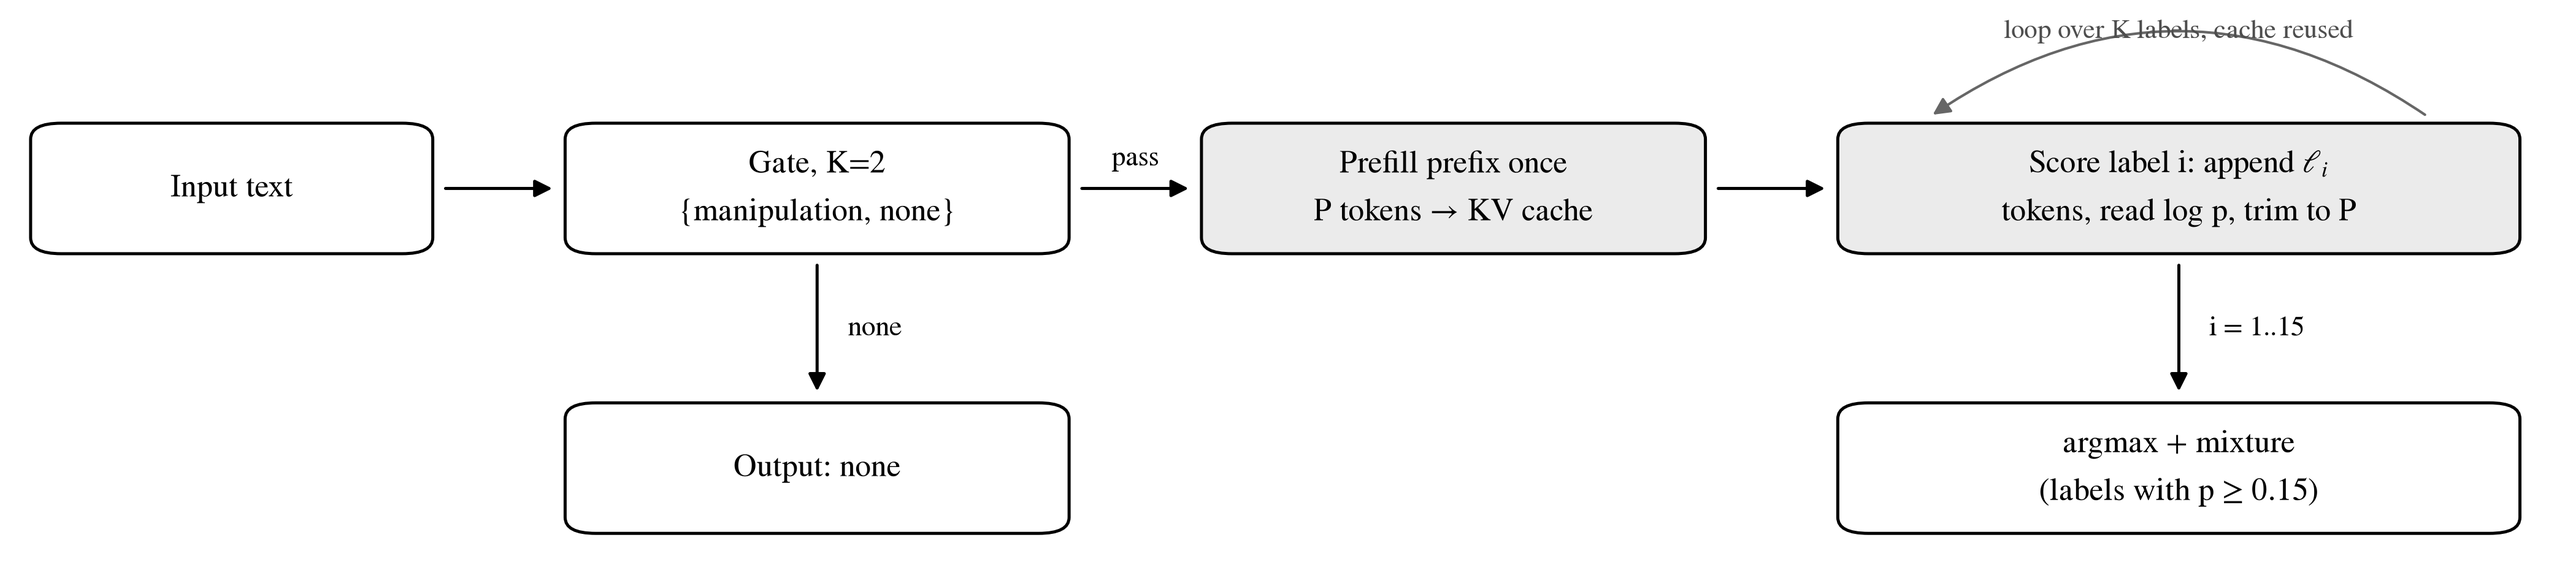
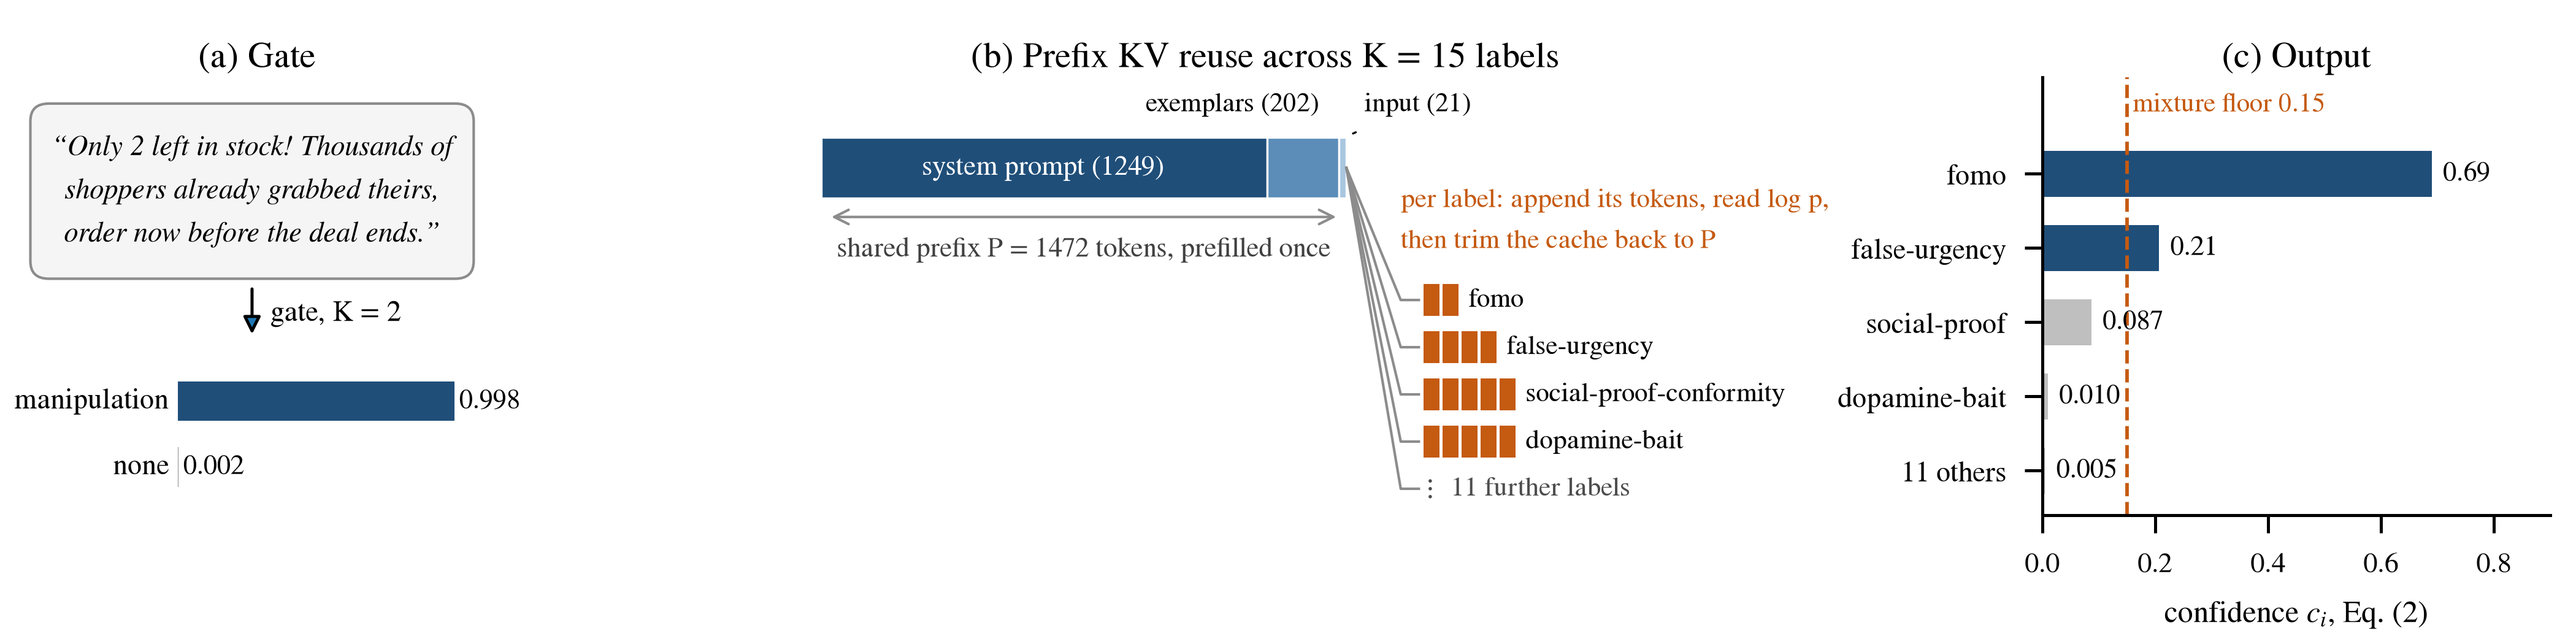
docs(paper): Fig. 1 redrawn as real gate, KV-prefix strip and confidence output

diff --git a/docs/paper/make_figs.py b/docs/paper/make_figs.py
@@ -64,27 +64,63 @@ def decode(ax, fs=5):
     ax.legend(fontsize=fs, loc="upper left", bbox_to_anchor=(0, 0.7), handlelength=1.5)
 
 
-def pipeline(ax):
-    ax.set_xlim(0, 100); ax.set_ylim(3, 43.5); ax.axis("off")
-    def box(x, y, w, h, txt, fill="w"):
-        ax.add_patch(FancyBboxPatch((x, y), w, h, boxstyle="round,pad=0.4,rounding_size=1.2",
-                                    fc=fill, ec="k", lw=0.6))
-        ax.text(x + w/2, y + h/2, txt, ha="center", va="center", fontsize=6.2)
-    def arr(x0, y0, x1, y1, t=None):
-        ax.annotate("", (x1, y1), (x0, y0), arrowprops=dict(arrowstyle="-|>", lw=0.6, color="k"))
-        if t: ax.text((x0+x1)/2 + (1.2 if x0 == x1 else 0), (y0+y1)/2 + (0 if x0 == x1 else 1.2), t, fontsize=5.5, ha="left" if x0 == x1 else "center", va="center" if x0 == x1 else "bottom")
-    box(1, 26, 15, 9, "Input text")
-    box(22, 26, 19, 9, "Gate, K=2\n{manipulation, none}")
-    box(47, 26, 19, 9, "Prefill prefix once\nP tokens → KV cache", fill="0.92")
-    box(72, 26, 26, 9, "Score label i: append ℓ$_i$\ntokens, read log p, trim to P", fill="0.92")
-    box(72, 5, 26, 9, "argmax + mixture\n(labels with p ≥ 0.15)")
-    box(22, 5, 19, 9, "Output: none")
-    arr(16.5, 30.5, 21.5, 30.5); arr(41.5, 30.5, 46.5, 30.5, "pass")
-    arr(66.5, 30.5, 71.5, 30.5); arr(85, 25.5, 85, 14.5, "i = 1..15")
-    arr(31.5, 25.5, 31.5, 14.5, "none")
-    ax.annotate("", (75, 35.6), (95, 35.6), arrowprops=dict(arrowstyle="-|>", lw=0.5, color="0.4",
-                connectionstyle="arc3,rad=0.35"))
-    ax.text(85, 41.8, "loop over K labels, cache reused", fontsize=5.3, ha="center", color="0.3")
+NAVY, ORNG, GRY = "#1f4e79", "#c55a11", "0.55"
+
+
+def pipeline(fig):
+    """Fig. 1: real run of the deployed 3B on one input (tokens from its tokenizer, p from /classify)."""
+    gs = fig.add_gridspec(1, 3, width_ratios=[1.0, 2.0, 1.1], wspace=0.5)
+    a, k, c = (fig.add_subplot(g) for g in gs)
+
+    # (a) gate
+    a.set_xlim(0, 10); a.set_ylim(0, 10); a.axis("off")
+    a.add_patch(FancyBboxPatch((0.3, 5.6), 9.2, 3.6, boxstyle="round,pad=0.2,rounding_size=0.4", fc="0.96", ec=GRY, lw=0.5))
+    a.text(4.9, 7.4, "\u201cOnly 2 left in stock! Thousands of\nshoppers already grabbed theirs,\norder now before the deal ends.\u201d",
+           ha="center", va="center", fontsize=5.6, style="italic")
+    a.annotate("", (4.9, 3.9), (4.9, 5.4), arrowprops=dict(arrowstyle="-|>", lw=0.6))
+    a.text(5.3, 4.6, "gate, K = 2", fontsize=5.6, va="center")
+    for y, lab, p_, col in [(2.6, "manipulation", 0.998, NAVY), (1.1, "none", 0.002, GRY)]:
+        a.barh(y, 6.0 * p_, left=3.3, height=0.9, color=col)
+        a.text(3.1, y, lab, ha="right", va="center", fontsize=5.6)
+        a.text(3.4 + 6.0 * p_, y, f"{p_:.3f}", va="center", fontsize=5.4)
+    a.set_title("(a) Gate", fontsize=7, pad=2)
+
+    # (b) KV cache strip + label branches
+    k.set_xlim(-2, 100); k.set_ylim(-0.8, 10.8); k.axis("off")
+    P = 1472; segs = [("system prompt + definitions", 1249, NAVY), ("exemplars", 202, "#5b8db8"), ("input", 21, "#a9c6e0")]
+    x0, sc = 0, 58 / P
+    for lab, n, col in segs:
+        k.add_patch(plt.Rectangle((x0, 7.6), n * sc, 1.6, fc=col, ec="w", lw=0.4))
+        x0 += n * sc
+    k.text(24.5, 8.4, "system prompt (1249)", ha="center", va="center", fontsize=5.4, color="w")
+    k.text(55, 9.9, "exemplars (202)", ha="right", fontsize=5.2)
+    k.annotate("input (21)", (57.7, 9.2), (60, 9.9), fontsize=5.2, arrowprops=dict(arrowstyle="-", lw=0.4))
+    k.annotate("", (0, 7.1), (58, 7.1), arrowprops=dict(arrowstyle="<->", lw=0.5, color=GRY))
+    k.text(29, 6.6, "shared prefix P = 1472 tokens, prefilled once", ha="center", va="top", fontsize=5.4, color="0.25")
+    rows = [("fomo", 2), ("false-urgency", 4), ("social-proof-conformity", 5), ("dopamine-bait", 5), ("11 further labels", None)]
+    for i, (lab, n) in enumerate(rows):
+        y = 4.9 - i * 1.25
+        k.plot([58, 64, 66], [8.4, y, y], color=GRY, lw=0.5)
+        if n:
+            for j in range(n):
+                k.add_patch(plt.Rectangle((66.5 + j * 2.1, y - 0.42), 1.8, 0.84, fc=ORNG, ec="none"))
+            k.text(66.5 + n * 2.1 + 0.8, y, lab, va="center", fontsize=5.3)
+        else:
+            k.text(66.5, y, "\u22ee  11 further labels", va="center", fontsize=5.3, color="0.3")
+    k.text(64, 7.0, "per label: append its tokens, read log p,\nthen trim the cache back to P", ha="left", va="center", fontsize=5.3, color=ORNG)
+    k.set_title("(b) Prefix KV reuse across K = 15 labels", fontsize=7, pad=2)
+
+    # (c) confidences
+    labs = ["fomo", "false-urgency", "social-proof", "dopamine-bait", "11 others"]
+    ps = [0.69, 0.207, 0.087, 0.010, 0.005]
+    ys = np.arange(len(labs))[::-1]
+    c.barh(ys, ps, color=[NAVY if p_ >= 0.15 else "0.75" for p_ in ps], height=0.62)
+    for y, p_ in zip(ys, ps): c.text(p_ + 0.02, y, f"{p_:.3f}" if p_ < 0.1 else f"{p_:.2f}", va="center", fontsize=5.4)
+    c.axvline(0.15, color=ORNG, lw=0.7, ls="--"); c.text(0.16, 4.75, "mixture floor 0.15", fontsize=5.2, color=ORNG, va="bottom"); c.set_ylim(-0.6, 5.3)
+    c.set_yticks(ys); c.set_yticklabels(labs, fontsize=5.6); c.set_xlim(0, 0.9)
+    c.tick_params(axis="x", labelsize=5.5); c.set_xlabel("confidence $c_i$, Eq. (2)", fontsize=6)
+    for sp in ("top", "right"): c.spines[sp].set_visible(False)
+    c.set_title("(c) Output", fontsize=7, pad=2)
 
 
 if __name__ == "__main__":
@@ -95,9 +131,11 @@ if __name__ == "__main__":
     fig.savefig("fig_main.pdf"); plt.close(fig)
 
     for name, f, size in [("acc", acc, (3.4, 1.75)), ("kv", kv, (3.4, 1.75)), ("reuse", reuse, (3.4, 1.65)),
-                          ("decode", decode, (3.4, 1.75)), ("pipeline", pipeline, (7.0, 1.55))]:
+                          ("decode", decode, (3.4, 1.75))]:
         fig, a = plt.subplots(figsize=size, constrained_layout=True)
-        f(a)
-        if name != "pipeline": a.tick_params(labelsize=6.5)
+        f(a); a.tick_params(labelsize=6.5)
         fig.savefig(f"fig_{name}.png", dpi=600); plt.close(fig)
+    fig = plt.figure(figsize=(7.0, 1.75)); pipeline(fig)
+    fig.subplots_adjust(left=0.01, right=0.99, top=0.88, bottom=0.2)
+    fig.savefig("fig_pipeline.png", dpi=600); plt.close(fig)
     print("ok")
